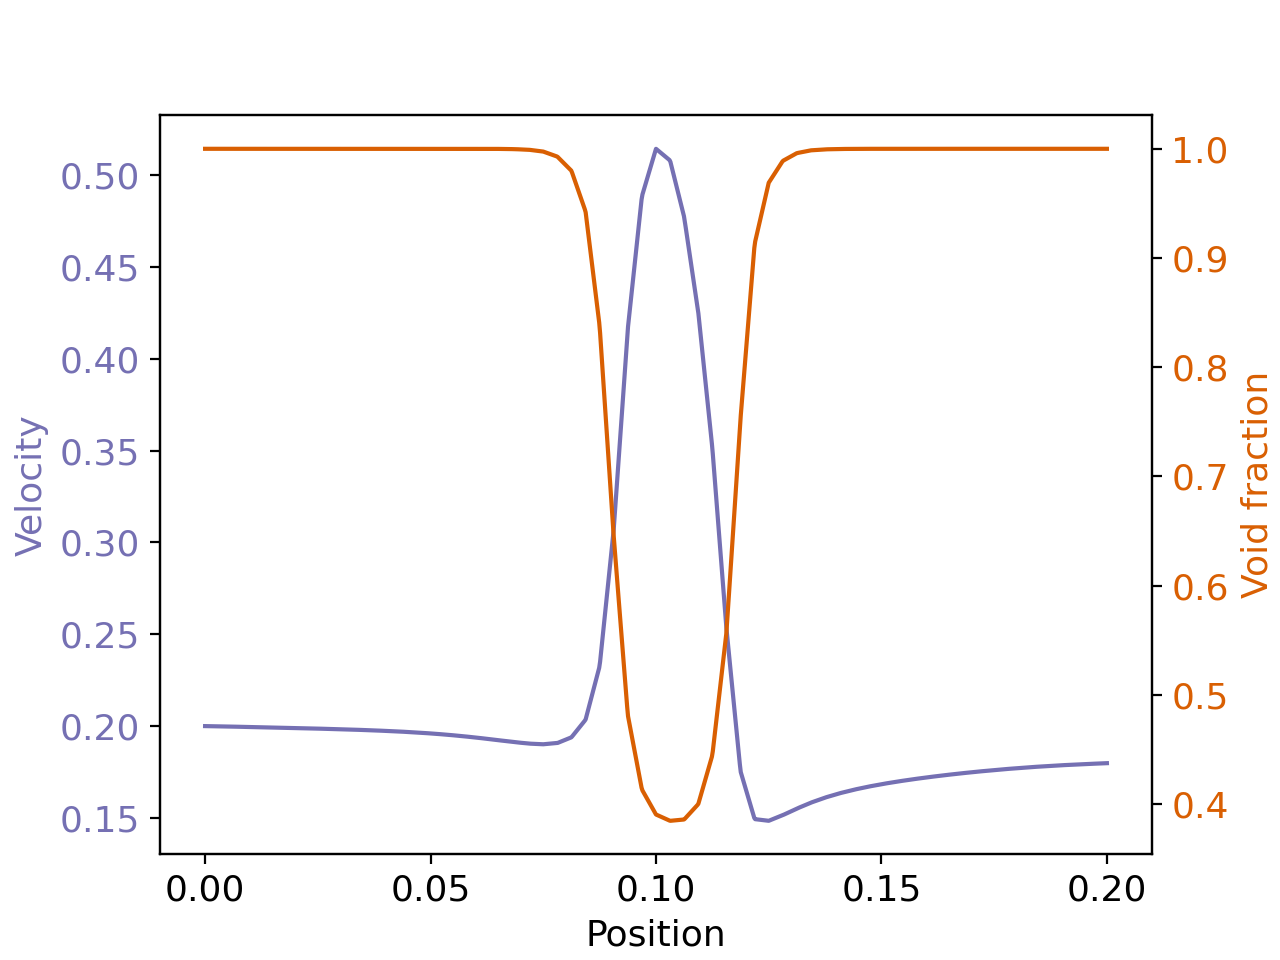
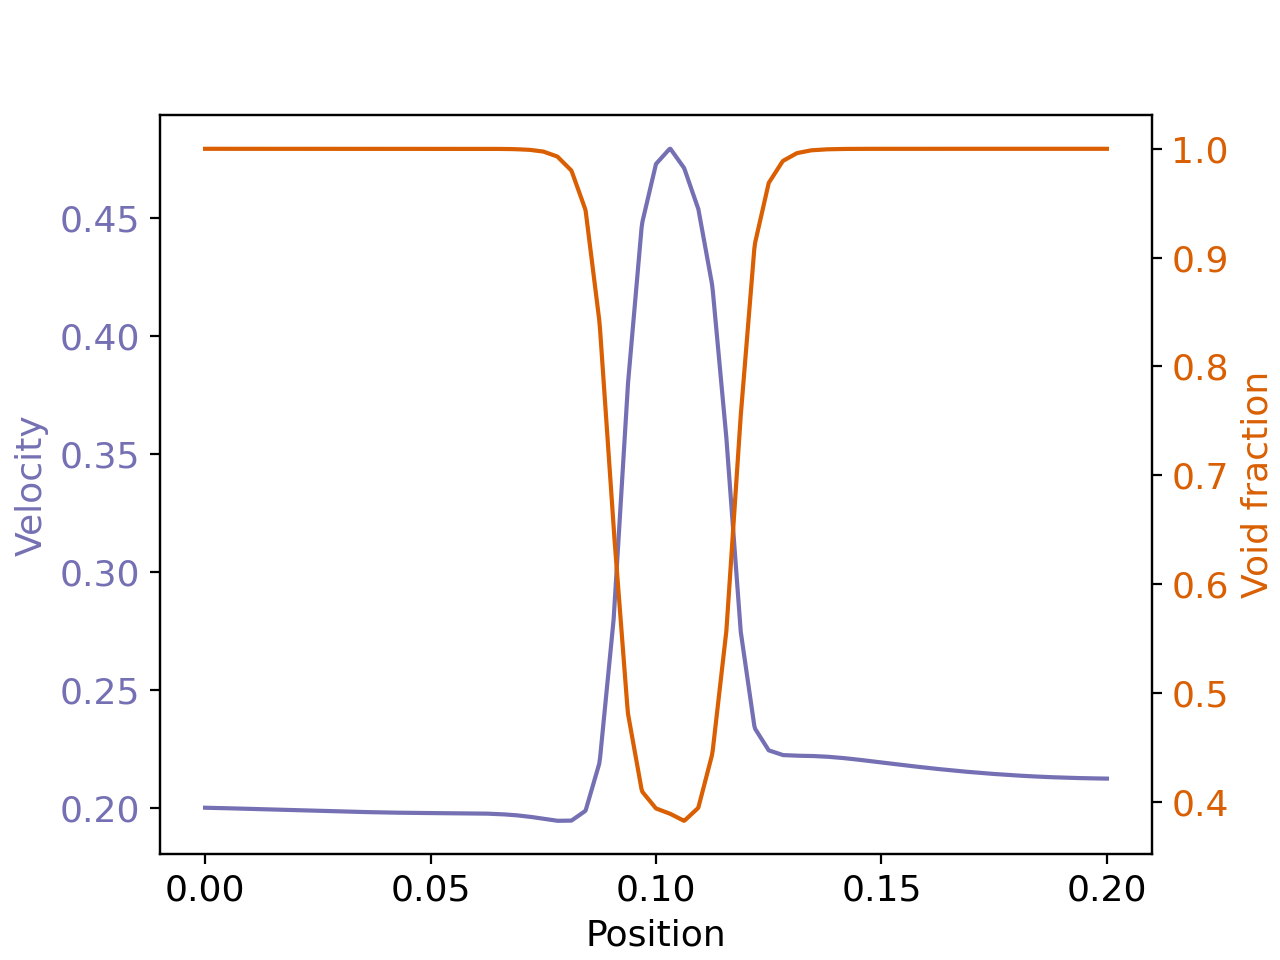
Fix the VANS example of a flow through a packed bed by using an implicit drag formulation instead of the default semi-implicit one. (#1840)
Description
Before the 1.0.3 release, I have realized that the flow through a packed bed example was not very well set-up. It was solving the flow in steady-state, but using the default semi-implicit drag formulation leading to an incorrect pressure drop. Furthermore, our default robust model is really model A and not model B. Finally, we never really ouput the pressure drop in the terminal while this is an easy thing to do.

Solution
I did the following things

Switch the formulation to model A
Use implicit drag formulation
Update and refresh the documentation
Testing
The test now runs and give adequate results.

Documentation
Documentation for the case has also been updated.

diff --git a/examples/unresolved-cfd-dem/cylindrical-packed-bed/post_process_packed_bed.py b/examples/unresolved-cfd-dem/cylindrical-packed-bed/post_process_packed_bed.py
@@ -1,4 +1,4 @@
-# SPDX-FileCopyrightText: Copyright (c) 2022, 2024 The Lethe Authors
+# SPDX-FileCopyrightText: Copyright (c) 2022-2025 The Lethe Authors
 # SPDX-License-Identifier: Apache-2.0 WITH LLVM-exception OR LGPL-2.1-or-later
 
 """
@@ -24,6 +24,35 @@ colors=['#1b9e77','#d95f02','#7570b3','#e7298a','#66a61e','#e6ab02']
 #--------------------------------------------
 # Main
 #--------------------------------------------
+
+# Particle properties
+dp=0.001
+n_p=10000
+rhop=2500
+
+# Fluid properties
+nu_f=0.00001
+rho_f=1
+mu_f=nu_f*rho_f
+
+# Fluid inlet velocity (m/s)
+U=0.2
+
+# Column diameter
+dc=0.02
+# Packed bed porosity (loosely packed spheres)
+eps_packed=0.45
+
+# Packed bed height
+V_particles=n_p*(4/3)*np.pi*(dp/2)**3
+V_bed=V_particles/(1-eps_packed)
+A_bed=np.pi*(dc/2)**2
+H_bed=V_bed/A_bed
+print("Packed bed height: ",H_bed)
+
+# Pressure drop from the Ergun equation
+deltaP_ergun= (150*(1-eps_packed)**2*mu_f*U/(dp**2*eps_packed**3) + 1.75*(1-eps_packed)*rho_f*U**2/(dp*eps_packed**3))*H_bed
+print("Pressure drop from Ergun equation: ",deltaP_ergun)
 
 # Load VTU file
 vtu_file="./output/out.00001.00000.vtu"
@@ -54,11 +83,26 @@ fig, ax1 = plt.subplots()
 
 # Plot the data for the first y-axis
 ax1.plot(x,p,label="Pressure drop",color=colors[0])
+ax1.plot([0,max(x)],[deltaP_ergun,deltaP_ergun],'k--',label="Ergun correlation")
 ax1.set_xlabel('Position')  # Common x-axis label
 ax1.set_ylabel('Pressure', color=colors[0])
-ax1.set_ylim([-1,10])
+ax1.set_ylim([-1,50])
 ax1.tick_params(axis='y', labelcolor=colors[0])  # Set y-axis tick color
 ax1.set_xticks([0,0.05,0.1,0.15,0.2]) #xticks(np.arange(min(x), max(x)+1, 1.0))
+
+
+# Add a nice arrow label for the Ergun correlation
+# Arrow + label
+x_mid = 0.15 * max(x)
+
+ax1.annotate(
+    "Ergun correlation",
+    xy=(x_mid, deltaP_ergun),          # point on the line
+    xytext=(x_mid, 0.85 * deltaP_ergun),  # text position (slightly above)
+    textcoords="data",
+    ha="center",
+    arrowprops=dict(arrowstyle="->", linewidth=1)
+)
 
 # Create a second y-axis sharing the same x-axis
 ax2 = ax1.twinx()

diff --git a/doc/source/examples/unresolved-cfd-dem/cylindrical-packed-bed/cylindrical-packed-bed.rst b/doc/source/examples/unresolved-cfd-dem/cylindrical-packed-bed/cylindrical-packed-bed.rst
@@ -223,10 +223,10 @@ The simulation is run in steady state. The simulation control section is shown:
 
 .. code-block:: text
 
-    subsection simulation control
-      set method      = bdf1
-      set output path = ./output/
-    end
+  subsection simulation control
+    set method      = steady
+    set output path = ./output/
+  end
    
 Physical Properties
 ~~~~~~~~~~~~~~~~~~~~~~~~~~~~
@@ -294,7 +294,7 @@ The additional sections that define the VANS solver are the void fraction subsec
 Void Fraction
 ~~~~~~~~~~~~~~~~~~~~~~~~~~~~
 
-Since we are calculating the void fraction using the packed bed of the DEM simulation, we set the mode to ``dem``. For this, we need to read the dem files which we already wrote using check-pointing. We therefore set the read dem to ``true`` and specify the prefix of the ``dem`` files to be read. We now choose a smoothing length for the void fraction as to reduce discontinuity which can lead to oscillations in the velocity. The length we choose is around the square of twice the particle's diameter. 
+Since we are calculating the void fraction using the packed bed of the DEM simulation, we set the mode to ``dem``. For this, we need to read the dem files which we already wrote using check-pointing. We therefore set the read dem to ``true`` and specify the prefix of the ``dem`` files to be read. We now choose a smoothing length for the void fraction as to reduce discontinuity which can lead to oscillations in the velocity. The length we choose is three time the particle diameter. 
  
 .. code-block:: text
 
@@ -302,13 +302,13 @@ Since we are calculating the void fraction using the packed bed of the DEM simul
       set mode                = pcm
       set read dem            = true
       set dem file name       = dem
-      set l2 smoothing length = 0.002236067977
+      set l2 smoothing length = 0.003
     end
 
 CFD-DEM
 ~~~~~~~~~~~~~~~~~~~~~~~~~~~~
 
-We also enable ``grad_div`` stabilisation in order to improve local mass conservation. 
+We also enable ``grad div`` stabilisation in order to improve local mass conservation. The default value of the grad div stabilization length, which is :math:`1`, is used.
 
 .. note:: 
     For certain simulations, this parameter should be disabled to improve stability of the solver.
@@ -319,14 +319,13 @@ We also enable ``grad_div`` stabilisation in order to improve local mass conserv
     set grad div                      = true
     set drag force                    = true
     set buoyancy force                = true
-    set shear force                   = false
-    set pressure force                = false
     set drag model                    = rong
     set post processing               = true
-    set vans model                    = modelB
+    set vans model                    = modelA
+    set drag coupling                 = implicit 
   end
     
-We determine the ``drag model`` to be used for the calculation of particle-fluid forces. Currently, Difelice, Rong and Dallavalle models are supported. Other optional forces that can be enabled are the ``buoyancy force``, the ``shear force`` and the ``pressure force``. As we are simulating a static bed, we choose to disable these forces. The VANS model we are solving is model B. Other possible option is model A.
+We determine the ``drag model`` to be used for the calculation of particle-fluid forces. All of the supported drag models are listed in :doc:`CFD-DEM section of the parameters guide <../../../parameters/unresolved-cfd-dem/cfd-dem>`. Other optional forces that can be enabled are the ``buoyancy force``, the ``shear force`` and the ``pressure force``. As we are simulating a static bed, we choose to disable these forces. The VANS model we are solving is model A. Other possible option is model B. Furthermore, we set ``drag coupling = implicit`` since we are running a steady-state simulation. Using an explicit or semi-implicit formulation here would lead to unphysical results.
 
 Finally, the linear and non-linear solver controls are defined.
 
@@ -356,7 +355,7 @@ Linear Solver
       set relative residual                     = 1e-3
       set minimum residual                      = 1e-10
       set preconditioner                        = ilu
-      set ilu preconditioner fill               = 4
+      set ilu preconditioner fill               = 2
       set ilu preconditioner absolute tolerance = 1e-12
       set ilu preconditioner relative tolerance = 1.00
       set verbosity                             = verbose

diff --git a/CHANGELOG.md b/CHANGELOG.md
@@ -13,6 +13,8 @@ The format is based on [Keep a Changelog](http://keepachangelog.com/).
 
 - MINOR Tracer reaction models failed for reaction order below 1 due to undefined NaN values arising from negative powers of concentration, specifically at the initial condition of tracer = 0. We added a smoothed minimum value (`tracer reaction threshold`) that prevents this issue and a MMS test to ensure that the proper solution is recovered even at a `tracer reaction order = 0.5`. [#1825](https://github.com/chaos-polymtl/lethe/issues/1825)
 
+- MINOR The lethe-fluid-vans example for the flow through a particles was not working adequately since it was using a semi-implicit drag formulation. This is now fixed and the example now uses the fully implicit coupling. The results are much better now since they compare quite favorably with Ergun empirical equation (and the bonus is that the example actually runs correctly!). [#1840](https://github.com/chaos-polymtl/lethe/pull/1840)
+
 ### [Master] - 2025-12-03
 
 ### Added
